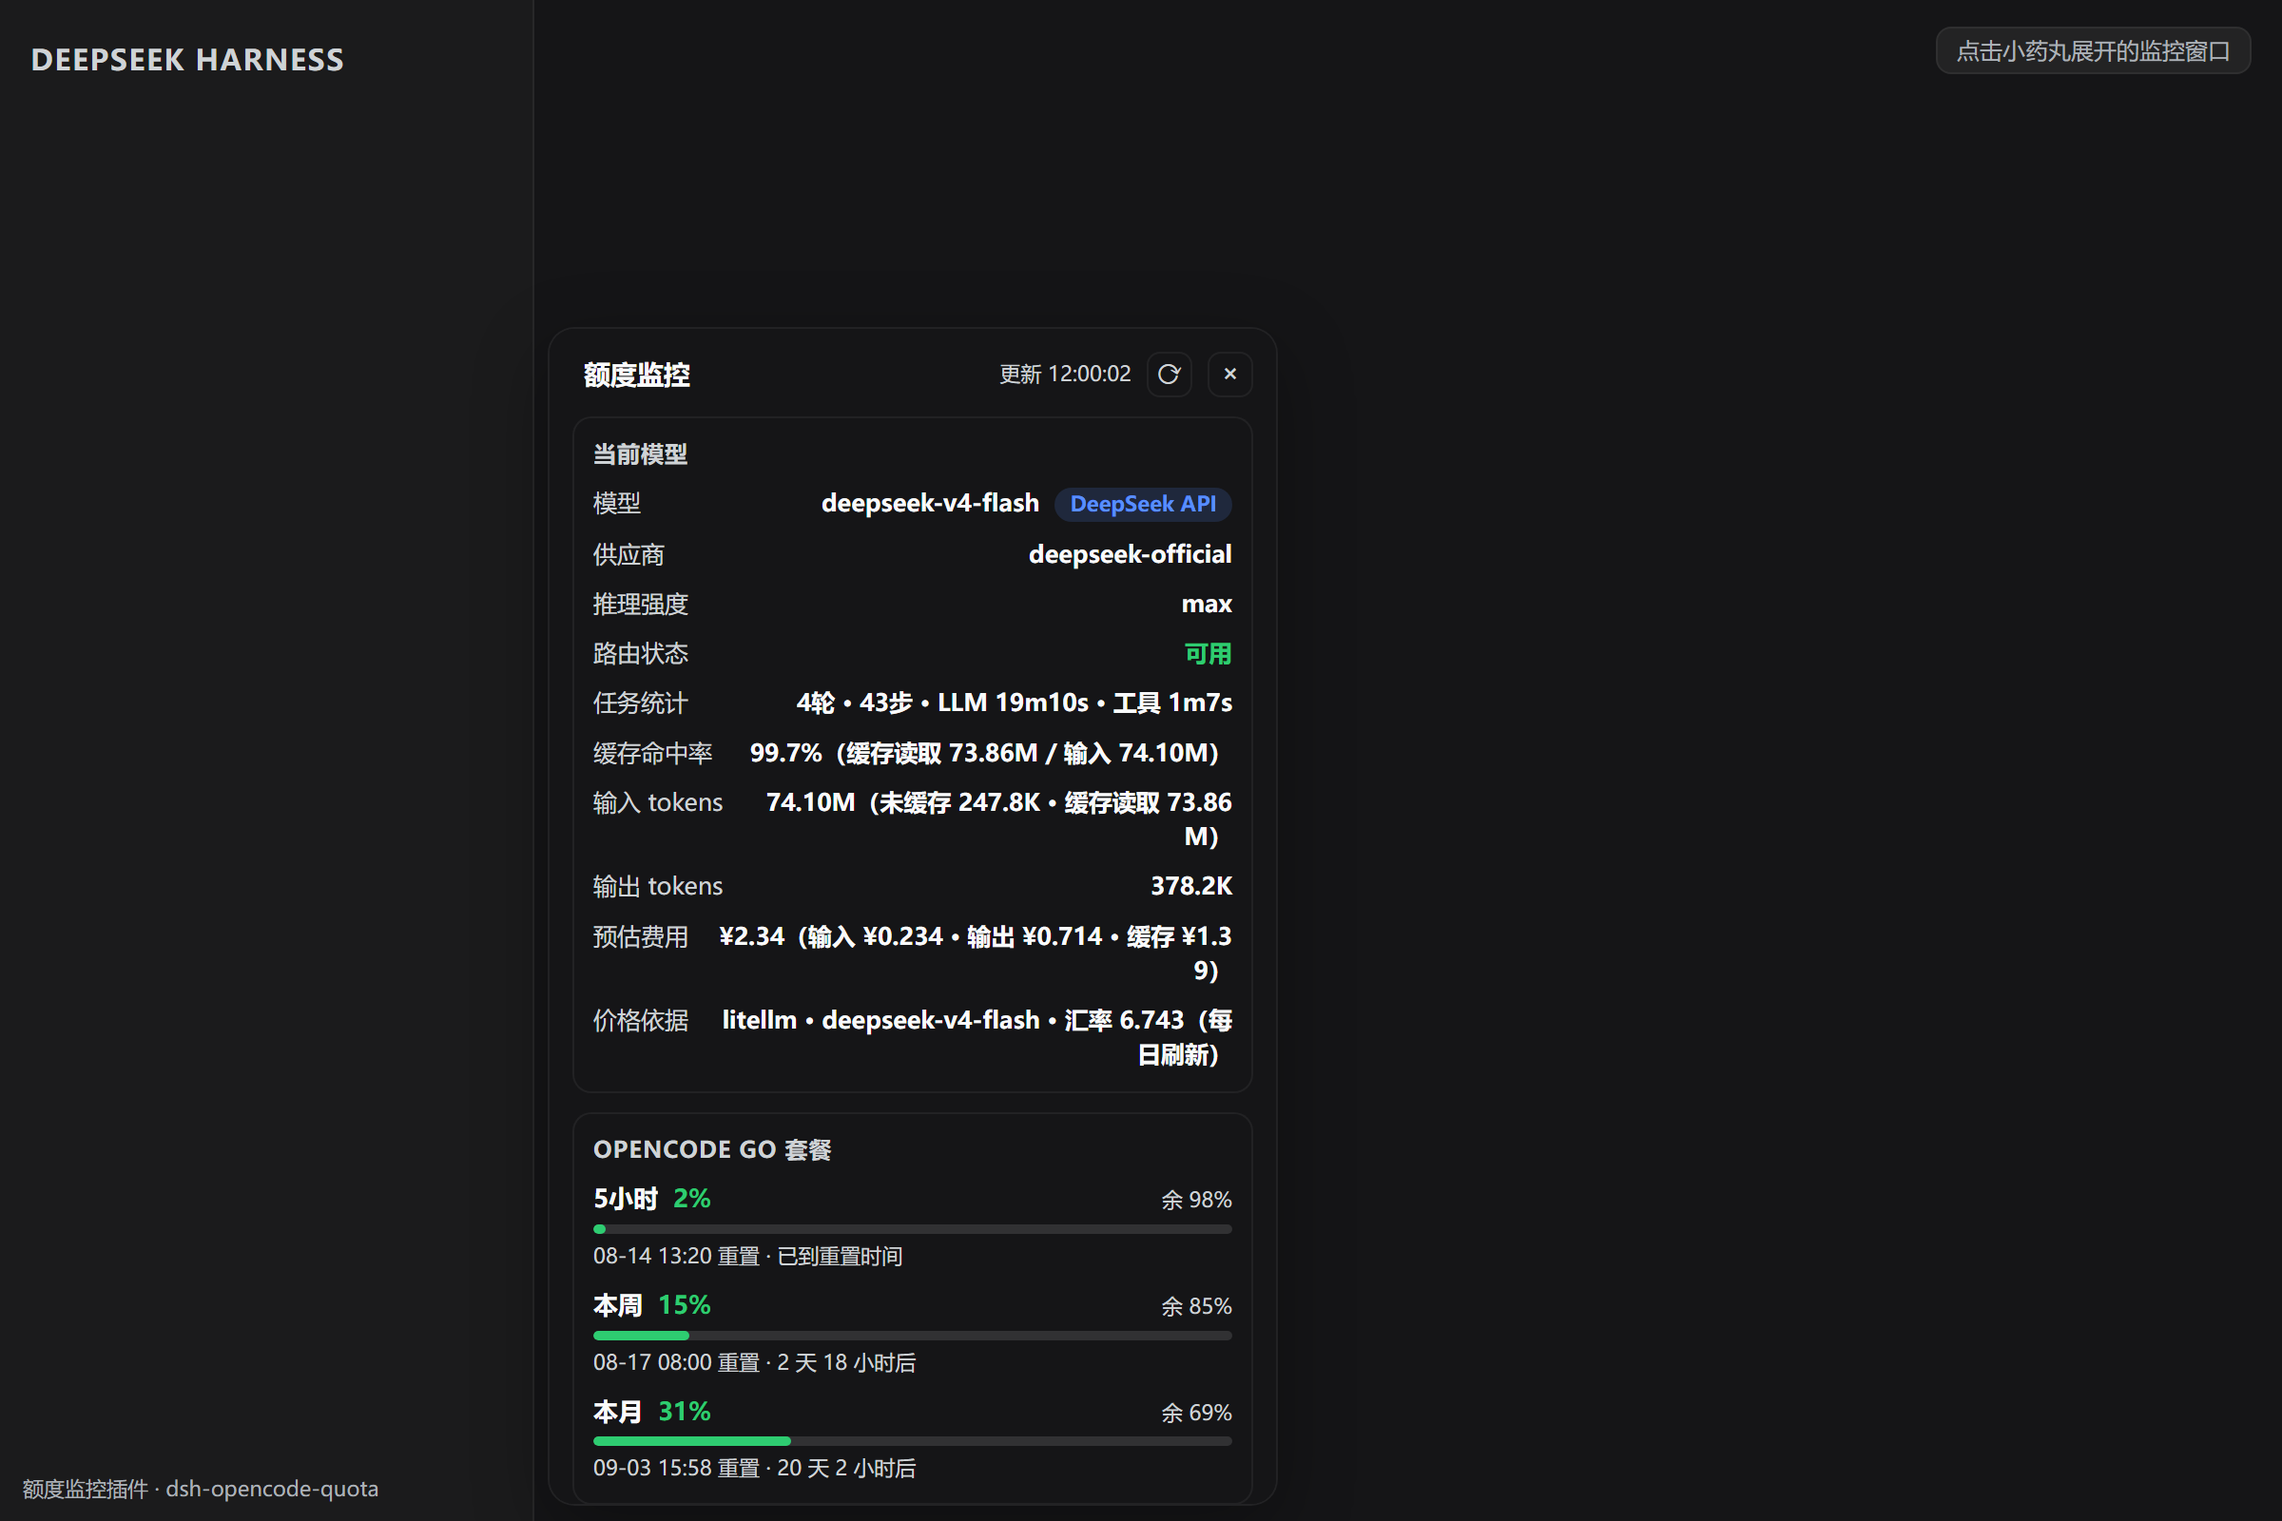
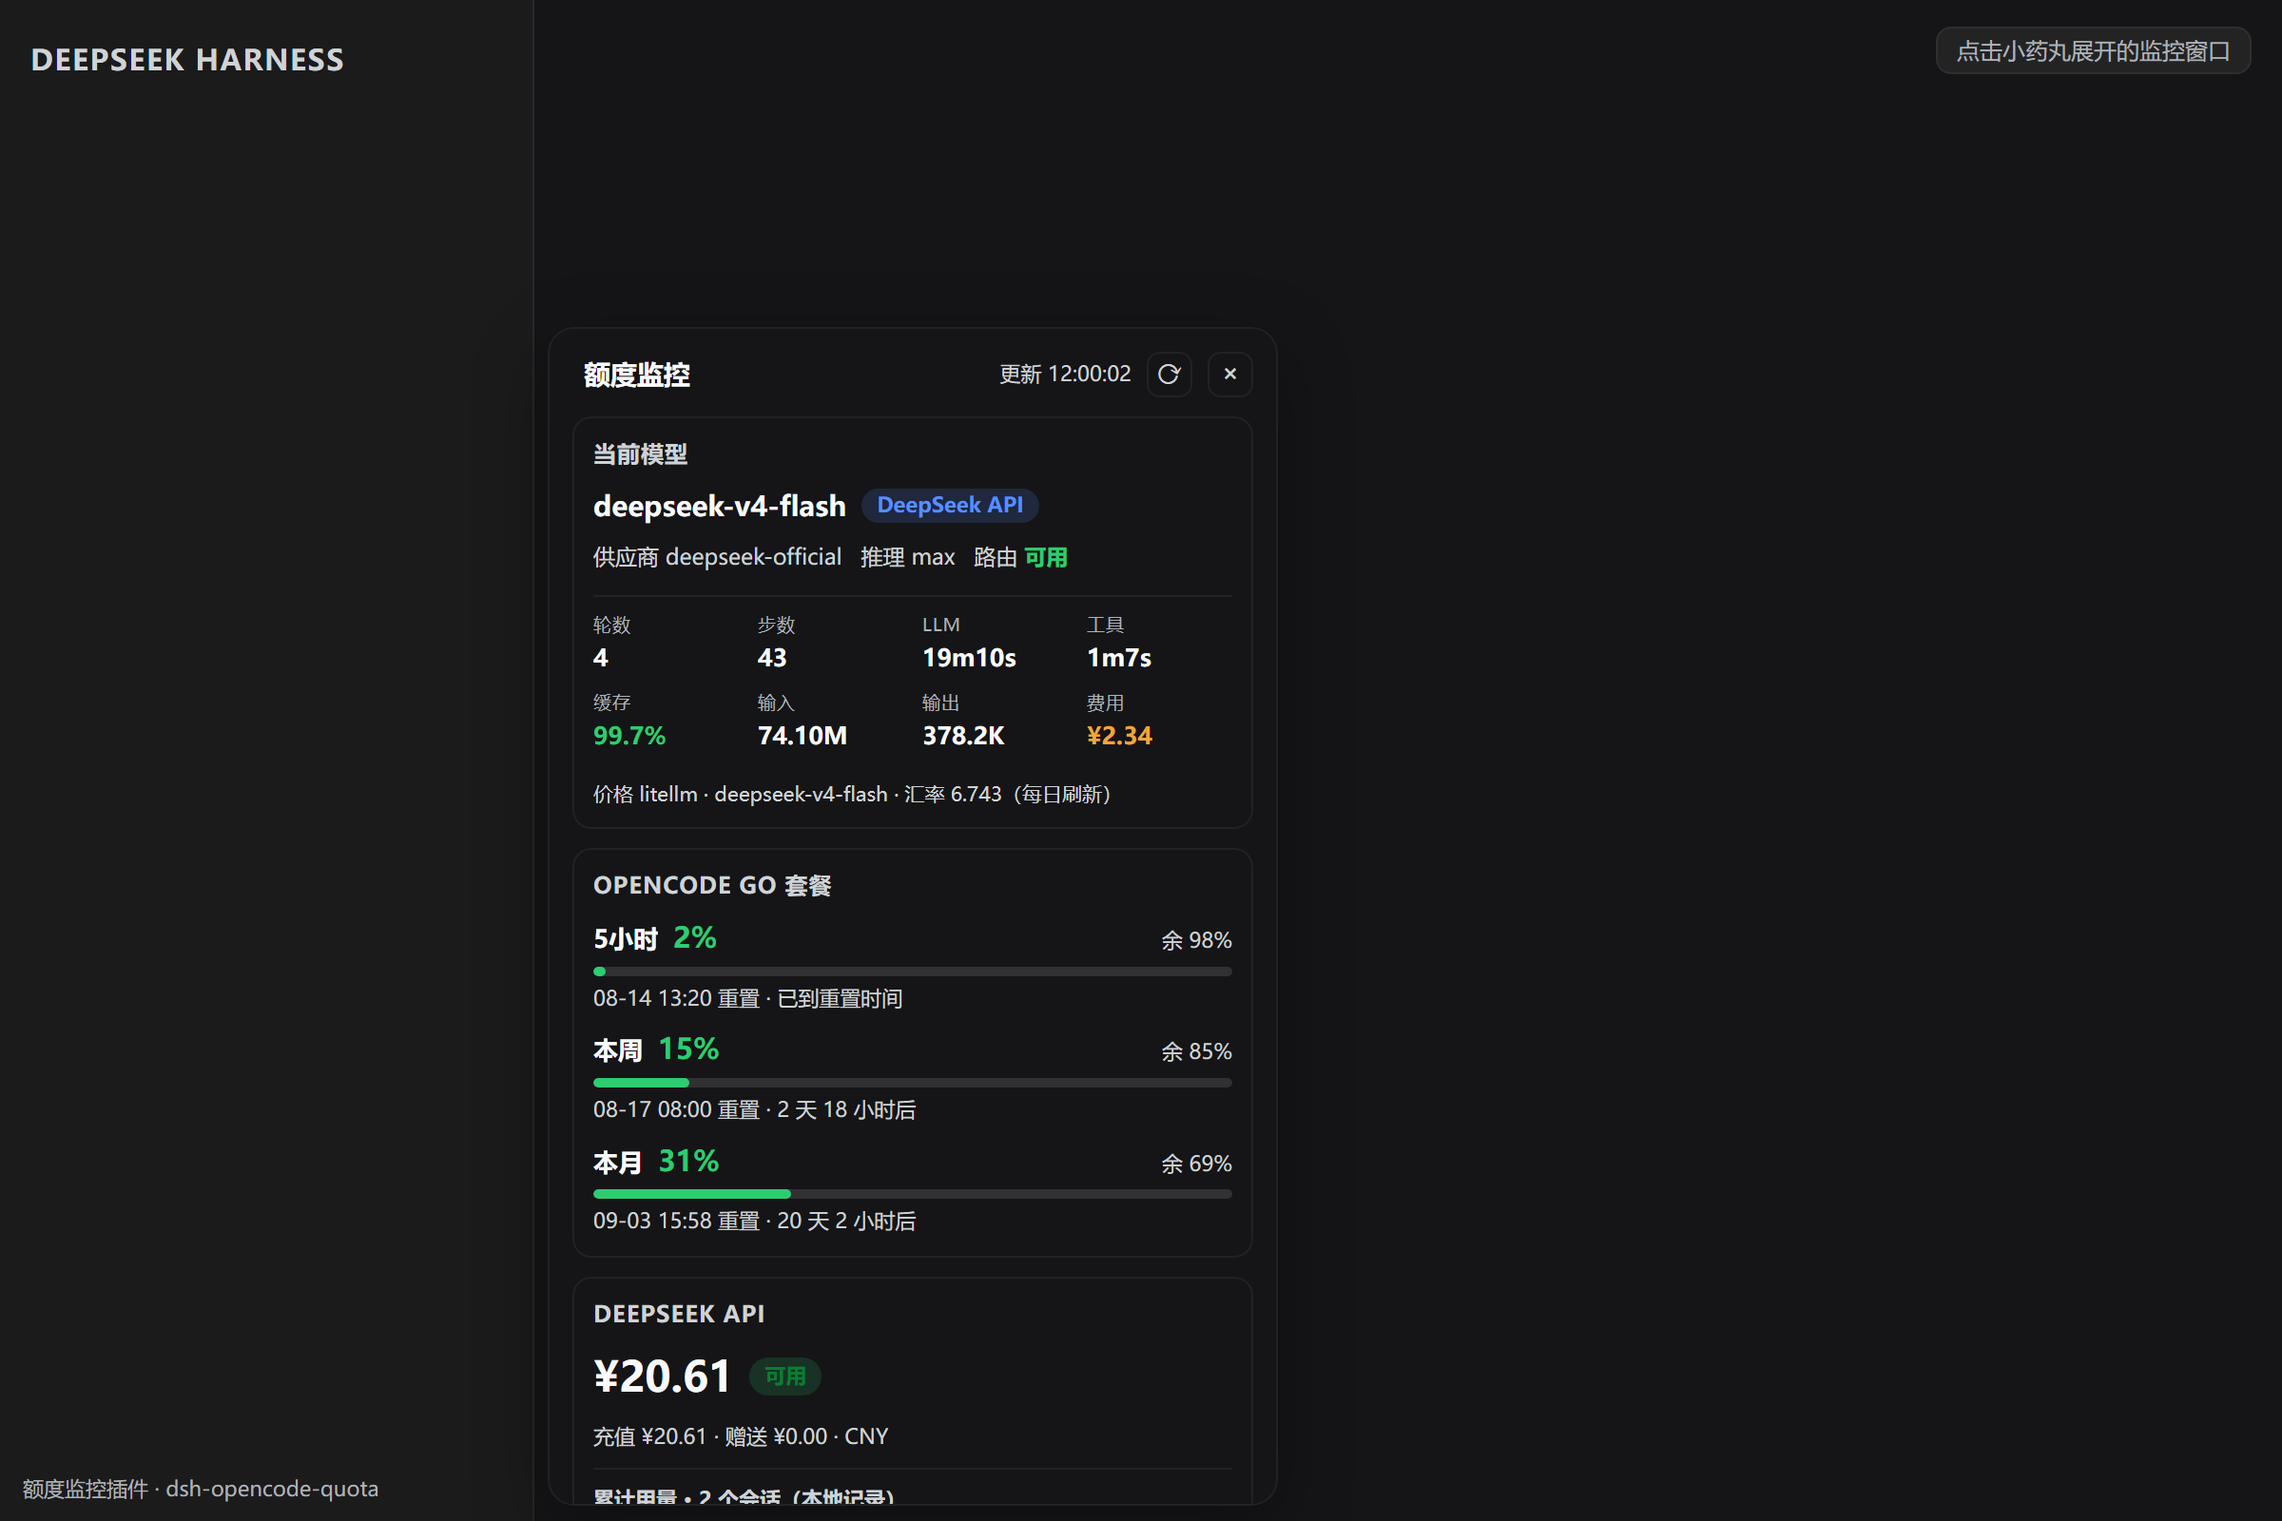
sync v0.5.1 from dsh-plugins/opencode-quota

Changed region(s): [[0.25, 0.3125, 0.5625, 1.0]]

diff --git a/lib/client.js b/lib/client.js
@@ -73,15 +73,21 @@ window.__ModuleLoader__.load({
 				".oq-sec{display:flex;flex-direction:column;gap:8px;padding:10px;border-radius:10px;border:1px solid var(--dsw-alias-border-l1);background:var(--dsw-alias-bg-elevated,var(--dsw-alias-bg-base))}",
 				".oq-sec-title{margin:0;font-size:12px;font-weight:700;color:var(--dsw-alias-label-secondary);text-transform:uppercase;letter-spacing:.04em}",
 				/* model section */
-				".oq-mrow{display:flex;gap:8px;font-size:12.5px;align-items:baseline}",
-				".oq-mrow-label{color:var(--dsw-alias-label-secondary);flex:none}",
-				".oq-mrow-value{font-weight:600;flex:1;text-align:right;word-break:break-all}",
+				".oq-model-title{display:flex;align-items:center;gap:8px;font-size:14.5px;font-weight:800;font-variant-numeric:tabular-nums;min-width:0}",
+				".oq-model-name{overflow:hidden;text-overflow:ellipsis;white-space:nowrap}",
+				".oq-model-meta{color:var(--dsw-alias-label-secondary);font-size:11.5px;display:flex;flex-wrap:wrap;gap:2px 10px;font-variant-numeric:tabular-nums}",
+				".oq-task-grid{display:grid;grid-template-columns:repeat(4,minmax(0,1fr));gap:8px 10px;border-top:1px solid var(--dsw-alias-border-l1);padding-top:8px;margin-top:4px}",
+				".oq-cell{display:flex;flex-direction:column;gap:1px;min-width:0}",
+				".oq-cell-label{font-size:9.5px;color:var(--dsw-alias-label-tertiary,var(--dsw-alias-label-secondary));letter-spacing:.05em;white-space:nowrap;overflow:hidden;text-overflow:ellipsis}",
+				".oq-cell-value{font-size:12.5px;font-weight:700;font-variant-numeric:tabular-nums;white-space:nowrap;overflow:hidden;text-overflow:ellipsis}",
+				".oq-cell-value.oq-money{color:#f0a63c}",
+				".oq-task-foot{color:var(--dsw-alias-label-secondary);font-size:10.5px;margin-top:6px;font-variant-numeric:tabular-nums;overflow:hidden;text-overflow:ellipsis;white-space:nowrap}",
 				".oq-tag{font-size:11px;font-weight:600;padding:1px 8px;border-radius:999px;background:rgba(88,142,255,.16);color:var(--dsw-alias-accent-fg,#588eff);flex:none}",
 				/* opencode windows */
 				".oq-wrow{display:flex;flex-direction:column;gap:4px}",
 				".oq-wrow-top{display:flex;align-items:baseline;gap:8px}",
 				".oq-wrow-label{font-weight:600;flex:none}",
-				".oq-wrow-pct{font-weight:700;font-variant-numeric:tabular-nums;flex:none}",
+				".oq-wrow-pct{font-weight:800;font-size:15px;font-variant-numeric:tabular-nums;flex:none}",
 				".oq-wrow-remain{color:var(--dsw-alias-label-secondary);font-size:11px;flex:1;text-align:right;font-variant-numeric:tabular-nums}",
 				".oq-wrow-bar{height:5px;border-radius:3px;background:var(--dsw-alias-border-l2);overflow:hidden}",
 				".oq-wrow-bar>span{display:block;height:100%;border-radius:3px}",
@@ -393,21 +399,27 @@ window.__ModuleLoader__.load({
 			});
 		}
 
-		/** One detail row: label + right-aligned value. */
-		function mrow(label, value, key) {
-			return (0, react_jsx_runtime.jsxs)("div", {
-				className: "oq-mrow",
+		/** One metric cell: tiny label above a bold value (grid layout). */
+		function metricCell(label, value, key, extra) {
+			return (0, react_jsx_runtime.jsxs)("span", {
+				className: "oq-cell",
+				title: extra !== null && extra !== void 0 && extra.title !== void 0 ? extra.title : void 0,
 				children: [
-					(0, react_jsx_runtime.jsx)("span", { className: "oq-mrow-label", children: label }, "label"),
-					(0, react_jsx_runtime.jsx)("span", { className: "oq-mrow-value", children: value }, "value")
+					(0, react_jsx_runtime.jsx)("span", { className: "oq-cell-label", children: label }, "label"),
+					(0, react_jsx_runtime.jsx)("span", {
+						className: extra !== null && extra !== void 0 && extra.money === true ? "oq-cell-value oq-money" : "oq-cell-value",
+						style: extra !== null && extra !== void 0 && extra.color !== void 0 ? { color: extra.color } : void 0,
+						children: value
+					}, "value")
 				]
 			}, key);
 		}
 
 		/**
-		 * Full task detail rows (turns/steps/durations, cache hit rate, tokens,
-		 * estimated cost + price source) — the "everything else" the collapsed
-		 * card defers to the expanded monitor.
+		 * Full task detail: a compact 4-column metric grid (turns/steps/durations,
+		 * cache hit rate, tokens, estimated cost) plus one small price foot line.
+		 * Breakdowns (cache split, cost items) live in per-cell tooltips so no
+		 * row ever wraps.
 		 */
 		function TaskRows({ task, onRetry }) {
 			if (task.status === "loading") {
@@ -433,33 +445,44 @@ window.__ModuleLoader__.load({
 			if (stats === null && usage === null) {
 				return (0, react_jsx_runtime.jsx)("div", { className: "oq-loading", children: "任务统计：暂无数据" });
 			}
-			const rows = [];
+			const cells = [];
 			if (stats !== null && typeof stats === "object") {
-				const parts = [`${stats.turns}轮`, `${stats.steps}步`];
-				if (stats.llmMs !== null && stats.llmMs !== void 0) parts.push(`LLM ${fmtDuration(stats.llmMs)}`);
-				if (stats.toolMs !== null && stats.toolMs !== void 0) parts.push(`工具 ${fmtDuration(stats.toolMs)}`);
-				rows.push(mrow("任务统计", parts.join(" · "), "stats"));
+				cells.push(metricCell("轮数", String(stats.turns), "turns"));
+				cells.push(metricCell("步数", String(stats.steps), "steps"));
+				if (stats.llmMs !== null && stats.llmMs !== void 0) cells.push(metricCell("LLM", fmtDuration(stats.llmMs), "llm"));
+				if (stats.toolMs !== null && stats.toolMs !== void 0) cells.push(metricCell("工具", fmtDuration(stats.toolMs), "tool"));
 			}
 			if (usage !== null && typeof usage === "object") {
 				const totalIn = usage.uncachedInputTokens + usage.cacheReadTokens;
-				rows.push(mrow("缓存命中率", `${cacheHitText(usage)}（缓存读取 ${fmtTokens(usage.cacheReadTokens)} / 输入 ${fmtTokens(totalIn)}）`, "hit"));
-				rows.push(mrow("输入 tokens", `${fmtTokens(totalIn)}（未缓存 ${fmtTokens(usage.uncachedInputTokens)} · 缓存读取 ${fmtTokens(usage.cacheReadTokens)}）`, "input"));
-				rows.push(mrow("输出 tokens", fmtTokens(usage.outputTokens), "output"));
+				const hit = totalIn > 0 ? (usage.cacheReadTokens / totalIn) * 100 : 0;
+				cells.push(metricCell("缓存", `${hit.toFixed(1)}%`, "hit", {
+					color: percentColor(100 - hit),
+					title: `缓存读取 ${fmtTokens(usage.cacheReadTokens)} / 输入 ${fmtTokens(totalIn)}`
+				}));
+				cells.push(metricCell("输入", fmtTokens(totalIn), "input", {
+					title: `未缓存 ${fmtTokens(usage.uncachedInputTokens)} · 缓存读取 ${fmtTokens(usage.cacheReadTokens)}`
+				}));
+				cells.push(metricCell("输出", fmtTokens(usage.outputTokens), "output"));
 			}
 			if (cost !== null && cost !== void 0) {
-				rows.push(mrow(
-					"预估费用",
-					`¥${fmtCost(cost.total)}（输入 ¥${fmtCost(cost.input)} · 输出 ¥${fmtCost(cost.output)} · 缓存 ¥${fmtCost(cost.cacheRead)}）`,
-					"cost"
-				));
+				cells.push(metricCell("费用", `¥${fmtCost(cost.total)}`, "cost", {
+					money: true,
+					title: `输入 ¥${fmtCost(cost.input)} · 输出 ¥${fmtCost(cost.output)} · 缓存 ¥${fmtCost(cost.cacheRead)}`
+				}));
 			}
+			let foot = null;
 			if (prices !== null && prices !== void 0) {
 				const source = prices.source === "builtin" ? "内置价格" : prices.source;
 				const matched = prices.matched ? ` · ${prices.matched}` : "";
 				const rate = prices.rate ? ` · 汇率 ${prices.rate}` : "";
-				rows.push(mrow("价格依据", `${source}${matched}${rate}（每日刷新）`, "prices"));
+				foot = (0, react_jsx_runtime.jsx)("div", { className: "oq-task-foot", children: `价格 ${source}${matched}${rate}（每日刷新）` }, "foot");
 			}
-			return (0, react_jsx_runtime.jsxs)(react_jsx_runtime.Fragment, { children: rows });
+			return (0, react_jsx_runtime.jsxs)(react_jsx_runtime.Fragment, {
+				children: [
+					(0, react_jsx_runtime.jsx)("div", { className: "oq-task-grid", children: cells }, "grid"),
+					foot
+				]
+			});
 		}
 
 		/** Current-model section body: model info + full task detail. */
@@ -480,43 +503,34 @@ window.__ModuleLoader__.load({
 			} else {
 				const current = state.payload.current;
 				const tag = planTag(current.provider);
+				const routable = state.payload.routable !== false;
 				modelPart = (0, react_jsx_runtime.jsxs)(react_jsx_runtime.Fragment, {
 					children: [
 						(0, react_jsx_runtime.jsxs)("div", {
-							className: "oq-mrow",
+							className: "oq-model-title",
 							children: [
-								(0, react_jsx_runtime.jsx)("span", { className: "oq-mrow-label", children: "模型" }, "label"),
-								(0, react_jsx_runtime.jsx)("span", { className: "oq-mrow-value", children: current.model }, "value"),
+								(0, react_jsx_runtime.jsx)("span", { className: "oq-model-name", children: current.model }, "name"),
 								(0, react_jsx_runtime.jsx)("span", { className: "oq-tag", children: tag }, "tag")
 							]
-						}, "model"),
+						}, "title"),
 						(0, react_jsx_runtime.jsxs)("div", {
-							className: "oq-mrow",
+							className: "oq-model-meta",
 							children: [
-								(0, react_jsx_runtime.jsx)("span", { className: "oq-mrow-label", children: "供应商" }, "label"),
-								(0, react_jsx_runtime.jsx)("span", { className: "oq-mrow-value", children: current.provider }, "value")
+								(0, react_jsx_runtime.jsx)("span", { children: `供应商 ${current.provider}` }, "provider"),
+								(current.reasoningEffort !== void 0 && current.reasoningEffort !== null
+									? (0, react_jsx_runtime.jsx)("span", { children: `推理 ${String(current.reasoningEffort)}` }, "effort")
+									: null),
+								(0, react_jsx_runtime.jsxs)("span", {
+									children: [
+										"路由 ",
+										(0, react_jsx_runtime.jsx)("span", {
+											style: { color: routable ? "#2ecc71" : "#ef5350", fontWeight: 700 },
+											children: routable ? "可用" : "不可用"
+										}, "v")
+									]
+								}, "routable")
 							]
-						}, "provider"),
-						(current.reasoningEffort !== void 0 && current.reasoningEffort !== null
-							? (0, react_jsx_runtime.jsxs)("div", {
-								className: "oq-mrow",
-								children: [
-									(0, react_jsx_runtime.jsx)("span", { className: "oq-mrow-label", children: "推理强度" }, "label"),
-									(0, react_jsx_runtime.jsx)("span", { className: "oq-mrow-value", children: String(current.reasoningEffort) }, "value")
-								]
-							}, "effort")
-							: null),
-						(0, react_jsx_runtime.jsxs)("div", {
-							className: "oq-mrow",
-							children: [
-								(0, react_jsx_runtime.jsx)("span", { className: "oq-mrow-label", children: "路由状态" }, "label"),
-								(0, react_jsx_runtime.jsx)("span", {
-									className: "oq-mrow-value",
-									style: { color: state.payload.routable === false ? "#ef5350" : "#2ecc71" },
-									children: state.payload.routable === false ? "不可用" : "可用"
-								}, "value")
-							]
-						}, "routable")
+						}, "meta")
 					]
 				});
 			}

diff --git a/README.md b/README.md
@@ -69,11 +69,11 @@
   - 拖动位置保存到 localStorage；点击展开（并立即刷新数据）；
 - **展开态**：384px 宽的监控面板（自动避让侧边栏，锚定在内容区左下角；
   **点击空白处或按 Esc 自动关闭**，也可点 ×），展示**所有绑定套餐**与全部任务详情：
-  - **当前模型**：模型、供应商/套餐标签、推理强度、路由状态；
-  - **任务详情**：轮数/步数、LLM/工具时长、缓存命中率（含缓存读取/输入拆分）、
-    输入/输出 tokens、**预估费用明细**（输入/输出/缓存分项）+ **价格依据**
-    （价格源、匹配模型、汇率、每日刷新说明）；
-  - **OpenCode Go 套餐**：5小时/本周/本月三行 —— 进度条 + 已用% + 余量% + 重置时间与倒计时；
+  - **当前模型**：模型名大标题 + 套餐标签 + 单行元信息（供应商 · 推理强度 · 路由状态）；
+  - **任务指标网格**：4 列紧凑网格 —— 轮数/步数/LLM/工具时长、缓存命中率（按健康度着色）、
+    输入/输出 tokens、**预估费用**（金色高亮）；缓存拆分与费用分项在单元格 tooltip 中；
+    价格依据单行脚注（价格源、匹配模型、汇率、每日刷新）；
+  - **OpenCode Go 套餐**：5小时/本周/本月三行 —— 进度条 + 已用%（大字）+ 余量% + 重置时间与倒计时；
   - **DeepSeek API**：余额大字（可用/不可用状态徽章、充值/赠送明细）+ 累计用量
     （输入/输出/缓存读取/合计，K/M 缩写，会话数）；
   - 右上角 ⟳ 手动刷新、× 收起；每 60 秒自动轮询，窗口聚焦立即刷新；

diff --git a/CHANGELOG.md b/CHANGELOG.md
@@ -1,5 +1,13 @@
 # Changelog
 
+## 0.5.1 (2026-08-14)
+
+- **监控窗口任务区重构**：原来的逐行 label+value 改为 **4 列指标网格**
+  （轮数/步数/LLM/工具/缓存/输入/输出/费用，label 小字 + 数值加粗），
+  长文本（缓存拆分、费用明细）移入单元格 tooltip —— 不再换行。
+- **层级优化**：当前模型区改为 模型名大标题 + 套餐标签 + 单行元信息
+  （供应商 · 推理 · 路由状态着色）；价格依据压缩为单行脚注；Go 窗口已用% 加大加粗。
+
 ## 0.5.0 (2026-08-14)
 
 - **模型切换实时同步**：订阅聊天框模型选择器的 ModelDirectory store —— 用户在输入框
